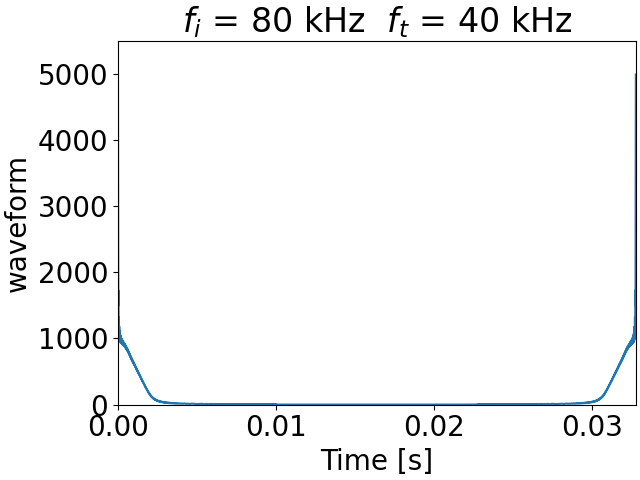
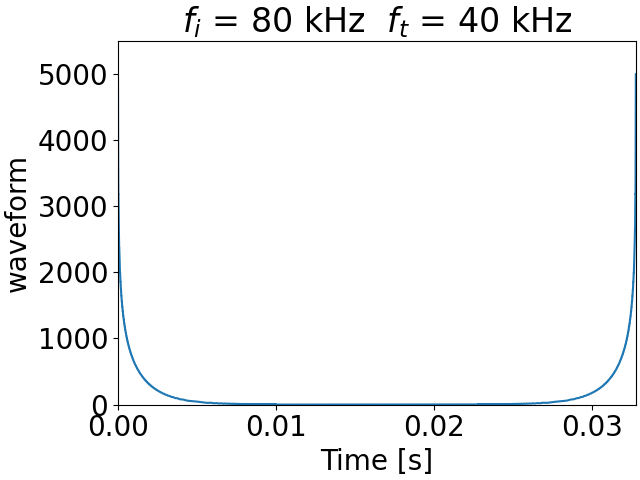
add mimicFM

diff --git a/Simulation/LPM/Robot_LPM＋CF.py b/Simulation/LPM/Robot_LPM＋CF.py
@@ -6,13 +6,14 @@ Created on Sat Sep 18 19:08:30 2021
 LPM + CF simulation
 @author: hasegawakanta
 """
+
 import numpy as np
 import matplotlib.pyplot as plt
 from scipy.fftpack import fft, ifft
 from scipy.signal import hilbert
 import scipy.signal as signal
 import pathlib
-
+import math
 
 def Initialize():
     #sensing_setting
@@ -25,13 +26,12 @@ def Initialize():
     Ft = 40000  #: terminal frequency [Hz]
     Duration =0.008 #LPM_duration [s]
     Duration_CF =0.002 # CF_duration [s]
-    
+    Duration_mimic=0.01#mimicFM_duration[s]
+    BatcallConstant=0.005#パラメータ
     draw_tx_spc_flg=True
     draw_Acor_flg=True
-    draw_tx_FFT_flg=True
-    print("ok!")
-    
-    return Fs,FFT_Smpl,Amplitude,Fi,Ft,Duration,Duration_CF,draw_tx_spc_flg,draw_Acor_flg,draw_tx_FFT_flg
+    draw_tx_FFT_flg=True   
+    return Fs,FFT_Smpl,Amplitude,Fi,Ft,Duration,Duration_CF,Duration_mimic,BatcallConstant,draw_tx_spc_flg,draw_Acor_flg,draw_tx_FFT_flg
     
 #位相を出している？
 def LPM_model_h(fs, fi, ft, dur, t):
@@ -47,6 +47,18 @@ def CF_add(fs, ft, t):
     f=ft*t/t
     del_phase = 2*np.pi*f*Ts
     return del_phase
+
+def Mimic_FM_add(fi,ft,BatcallConstant,fs,dur):
+    pi=np.pi
+    nframes=int(dur*fs+1)
+    arg=(BatcallConstant*ft)/fi
+    call=[]
+    fi=fi/100
+    ft=ft/100
+    for i in range(nframes):
+        t=float(i)/fs*100
+        call.append(np.sin(2.*pi*((fi/(fi-BatcallConstant*ft))*((fi-ft)*np.float_power(arg, t)/math.log(arg)+(1-BatcallConstant)*ft*t))))
+    return call
     
 #波形を作った？　なぜ加算して行っているのか・・
 def trans_wv(del_phase_array):
@@ -120,7 +132,7 @@ def draw_spectrogram(fig_name, x_data, y_data, z_color, f_init, f_termin, val):
     plt.close()
     
 
-def tx_design_view(fs, FFT_smpl, Amp, fi, ft, duration, duration_CF, draw_tx_spc_flg, draw_Acor_flg, draw_tx_FFT_flg):
+def tx_design_view(fs, FFT_smpl, Amp, fi, ft, duration, duration_CF,Duration_mimic,BatcallConstant, draw_tx_spc_flg, draw_Acor_flg, draw_tx_FFT_flg):
 
     Ts=1.0/fs #[s]
     t_start = 0.0
@@ -146,6 +158,14 @@ def tx_design_view(fs, FFT_smpl, Amp, fi, ft, duration, duration_CF, draw_tx_spc
     txwv_CF = trans_wv(txphase_CF)
     txwv_CF = zero_filled(txwv_CF, t_array)
 
+    ###### mimicFM create #########]
+    call=Mimic_FM_add(fi, ft, BatcallConstant, fs, Duration_mimic)
+    txwv_FM=[]
+    txwv_FM=np.append(txwv_FM,call)
+    txwv_FM=np.append(txwv_FM,[0]*(FFT_smpl-(int(Duration_mimic*fs+1))))
+
+
+
     ##### tx_wave_draw ###############
 #    draw_wv("txwv", t_array, txwv, min(t_array), max(t_array), min(txwv), max(txwv), fi, ft, dataDir)#生波形描画用
         
@@ -157,30 +177,36 @@ def tx_design_view(fs, FFT_smpl, Amp, fi, ft, duration, duration_CF, draw_tx_spc
         draw_spectrogram("tx", spc_t, spc_f, spc_pw, fi, ft, dataDir)   
         spc_f_CF, spc_t_CF, spc_pw_CF = signal.spectrogram(txwv_CF, fs, nperseg=1024, noverlap=int(1024*0.98))
         draw_spectrogram("tx_CF", spc_t_CF, spc_f_CF, spc_pw_CF, fi, ft, dataDir)
+        spc_f_FM, spc_t_FM, spc_pw_FM = signal.spectrogram(txwv_FM, fs, nperseg=1024, noverlap=int(1024*0.98))
+        draw_spectrogram("tx_FM", spc_t_FM, spc_f_FM, spc_pw_FM, fi, ft, dataDir) 
     
     ##### Acor_calc_and_draw ######
     if draw_Acor_flg==1:
         Acor_env_tx = Xcor_func(t_array, txwv, txwv)
         Acor_env_tx_CF = Xcor_func(t_array, txwv_CF, txwv_CF)
+        Acor_env_tx_FM = Xcor_func(t_array, txwv_FM, txwv_FM)
         draw_wv("Acor", t_array, Acor_env_tx, min(t_array), max(t_array), min(Acor_env_tx)*1.1, max(Acor_env_tx)*1.1, fi, ft, dataDir)
         draw_wv("Acor_CF", t_array, Acor_env_tx_CF, min(t_array), max(t_array), min(Acor_env_tx_CF)*1.1, max(Acor_env_tx_CF)*1.1, fi, ft, dataDir)
+        draw_wv("Acor_CF", t_array, Acor_env_tx_FM, min(t_array), max(t_array), min(Acor_env_tx_FM)*1.1, max(Acor_env_tx_FM)*1.1, fi, ft, dataDir)
         
     ##### tx_spectram(FFT)_draw ###############
     ###### transmit_wave("spectrum_tx")_and_reference_wave("spectrum_tx_CF")_draw######    
     if draw_tx_FFT_flg==1:
         txspc = np.abs(fft(txwv))
         txspc_CF = np.abs(fft(txwv_CF))
+        txspc_FM=np.abs(fft(txwv_FM))
         f_array = np.linspace(0, fs, len(txwv))
         draw_spctrm("spectrum_tx", txspc, f_array/1000, 0, 2000, 0, fs/10000, fi, ft, dataDir)
         draw_spctrm("spectrum_tx_CF", txspc_CF, f_array/1000, 0, 2000, 0, fs/10000, fi, ft, dataDir)
+        draw_spctrm("spectrum_tx_FM", txspc_FM, f_array/1000, 0, 2000, 0, fs/10000, fi, ft, dataDir)
   
     print("good")
     #return t_array, txwv, txwv_CF
 
 def main():
-    Fs,FFT_Smpl,Amplitude,Fi,Ft,Duration,Duration_CF,draw_tx_spc_flg,draw_Acor_flg,draw_tx_FFT_flg=Initialize()
+    Fs,FFT_Smpl,Amplitude,Fi,Ft,Duration,Duration_CF,Duration_mimic,BatcallConstant,draw_tx_spc_flg,draw_Acor_flg,draw_tx_FFT_flg=Initialize()
     
-    tx_design_view(Fs, FFT_Smpl, Amplitude, Fi, Ft, Duration, Duration_CF, True, True, True)
+    tx_design_view(Fs, FFT_Smpl, Amplitude, Fi, Ft, Duration, Duration_CF,Duration_mimic,BatcallConstant, True, True, True)
 
 if __name__ == '__main__':
     main()
